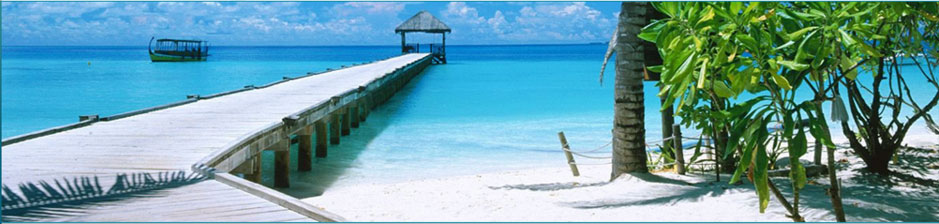
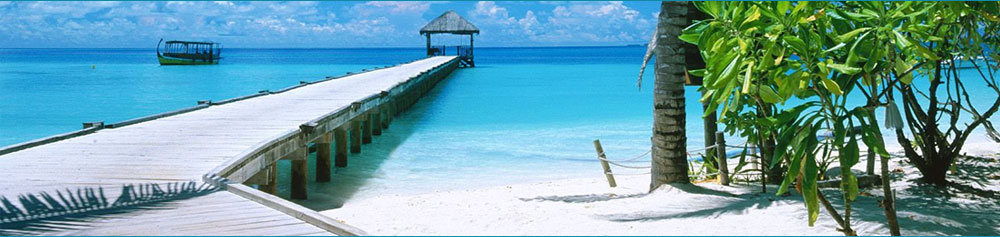
added menu

diff --git a/homework4/index.html b/homework4/index.html
@@ -8,14 +8,9 @@
   </head>
   <body>
     <div class="parent">
-      <div class="header clearfix">
+      <div class="clearfix">
         <div class="logo">
-          <h1 class="name">
-          ASIA-HOLIDAYS
-          </h1>
-          <p class="rus">
-          Путешествия по Азии
-          </p>
+          <img src="img/logo.png" alt="" />
         </div>
         <p class="contacts">
         Наши контакты: <br>
@@ -24,7 +19,7 @@
         info@asia-holidays.com
         </p>
       </div>
-        <div class="flags">
+        <div>
           <ul class="countries">
           <li><img src="img/maldives.png" alt="" /><a href="#">Maldives</a></li>
           <li><img src="img/sri-lanka.png" alt="" /><a href="#">Sri-Lanka</a></li>
@@ -36,7 +31,73 @@
         </div>
         <div class="beach">
           <img src="img/beach.jpg" alt="beach" />
-
+        </div>
+        <div>
+          <ul class="menu">
+            <li><a href="#">Главная</a>
+              <ul class="submenu">
+                <li><a href="#">Главная 1</a></li>
+                <li><a href="#">Главная 2</a></li>
+                <li><a href="#">Главная 3</a></li>
+                <li><a href="#">Главная 4</a></li>
+                <li><a href="#">Главная 5</a></li>
+              </ul>
+            </li>
+            <li><a href="#">Путешествие</a>
+              <ul class="submenu">
+                <li><a href="#">Путешествие 1</a></li>
+                <li><a href="#">Путешествие 2</a></li>
+                <li><a href="#">Путешествие 3</a></li>
+                <li><a href="#">Путешествие 4</a></li>
+                <li><a href="#">Путешествие 5</a></li>
+              </ul>
+            </li>
+            <li><a href="#">Услуги</a>
+              <ul class="submenu">
+                <li><a href="#">Услуги 1</a></li>
+                <li><a href="#">Услуги 2</a></li>
+                <li><a href="#">Услуги 3</a></li>
+                <li><a href="#">Услуги 4</a></li>
+                <li><a href="#">Услуги 5</a></li>
+              </ul>
+            </li>
+            <li><a href="#">Партнёрам</a>
+              <ul class="submenu">
+                <li><a href="#">Партнёрам 1</a></li>
+                <li><a href="#">Партнёрам 2</a></li>
+                <li><a href="#">Партнёрам 3</a></li>
+                <li><a href="#">Партнёрам 4</a></li>
+                <li><a href="#">Партнёрам 5</a></li>
+              </ul>
+            </li>
+            <li><a href="#">Отзывы клиентов</a>
+              <ul class="submenu">
+                <li><a href="#">Отзывы клиентов 1</a></li>
+                <li><a href="#">Отзывы клиентов 2</a></li>
+                <li><a href="#">Отзывы клиентов 3</a></li>
+                <li><a href="#">Отзывы клиентов 4</a></li>
+                <li><a href="#">Отзывы клиентов 5</a></li>
+              </ul>
+            </li>
+            <li><a href="#">О нас</a>
+              <ul class="submenu">
+                <li><a href="#">О нас 1</a></li>
+                <li><a href="#">О нас 2</a></li>
+                <li><a href="#">О нас 3</a></li>
+                <li><a href="#">О нас 4</a></li>
+                <li><a href="#">О нас 5</a></li>
+              </ul>
+            </li>
+            <li><a href="#">Контакты</a>
+              <ul class="submenu">
+                <li><a href="#">Контакты 1</a></li>
+                <li><a href="#">Контакты 2</a></li>
+                <li><a href="#">Контакты 3</a></li>
+                <li><a href="#">Контакты 4</a></li>
+                <li><a href="#">Контакты 5</a></li>
+              </ul>
+            </li>
+          </ul>
         </div>
 
 

diff --git a/homework4/css/style.css b/homework4/css/style.css
@@ -7,46 +7,33 @@ body {
   height: 900px;
   margin: 0px auto;
 }
-.name {
-    font-size: 40px;
-    color: black;
-    margin: 70px 0px 0px 60px;
-}
-.rus {
-    color: black;
-    font-size: 20px;
-    margin: 10px 0px 0px 120px;
-}
-.logo {
+.logo img {
     float: left;
+    margin: 15px 0px 0px 90px;
 }
-/*.clearfix div {
-    content: '';
-    display: block;
-    clear: both;*/
 .contacts {
     float: right;
     color: black;
-    font-size: 15px;
+    font-size: 12px;
     text-align: left;
     padding: 10px 25px 0px 0px;
 }
 .contacts::first-line {
-    font-size: 20px;
+    font-size: 15px;
     line-height: 40px;
   }
 .countries li {
     float: right;
     margin-right:5px;
-    margin-bottom: 15px;
+    margin-top: 25px;
     text-align: center;
     font-size: 15px;
     width: 65px;
 }
 .countries {
-  position: relative;
+  /*position: relative;
   overflow: hidden;
-  margin-right: 25px;
+  margin-right: 25px;*/
 }
 .countries img {
     display: block;
@@ -56,9 +43,52 @@ body {
 .clearfix:after{
     content: '';
     display: block;
-    clear: both;
+    clear: right;
 }
 .beach img {
-  height: 253px;
   width: 1060px;
+}
+ul:after {
+    display: block;
+    content: ' ';
+    clear: both;
+}
+ul.menu > li {
+    float: left;
+    position: relative;
+}
+ul.menu > li > a {
+    display: block;
+    padding: 10px;
+    color: white;
+    background-color: black;
+    text-decoration: none;
+}
+ul.menu > li > a:hover {
+    background-color: grey;
+}
+ul.submenu {
+    display: none;
+    position: absolute;
+    width: 120px;
+    top: 37px;
+    left: 0;
+    background-color: white;
+    border: 1px solid red;
+}
+ul.submenu > li {
+    display: block;
+}
+ul.submenu > li > a {
+    display: block;
+    padding: 10px;
+    color: white;
+    background-color: red;
+    text-decoration: none;
+}
+ul.submenu > li > a:hover {
+    text-decoration: underline;
+}
+ul.menu > li:hover > ul.submenu {
+    display: block;
 }
